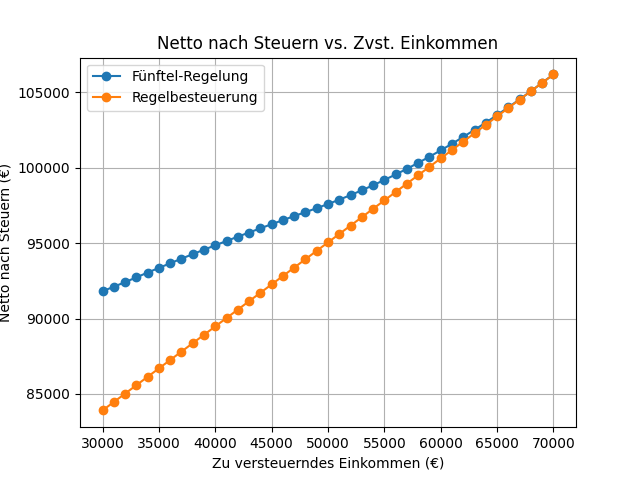
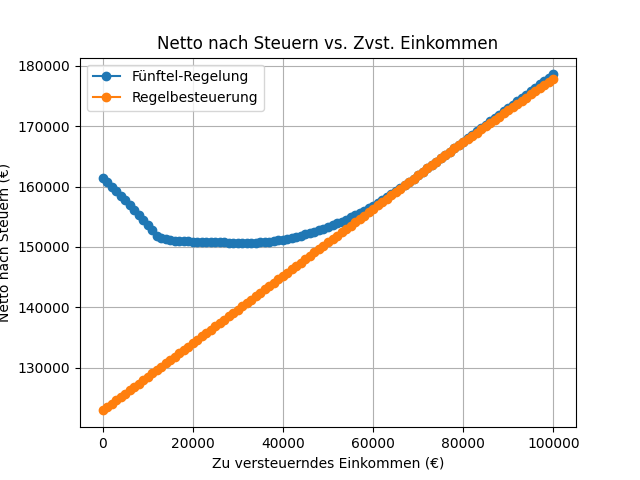
Active GUI

diff --git a/gui.py b/gui.py
@@ -1,11 +1,14 @@
-# gui.py
+import tkinter as tk
+from tkinter import ttk
 from decimal import Decimal
 import matplotlib.pyplot as plt
+from matplotlib.backends.backend_tkagg import FigureCanvasTkAgg
 from steuer_berechner import berechne_steuer
+
 
 def generate_plot(jahr, splitting, kirche, abfindung, zvst_eink_start, progr_eink):
     # Generate data for the plot
-    zvst_eink_values = [zvst_eink_start + i * 1000 for i in range(-20, 21)]
+    zvst_eink_values = [zvst_eink_start + i * 1000 for i in range(-50, 51)]
     netto_fuenftel_values = []
     netto_regel_values = []
 
@@ -32,15 +35,83 @@ def generate_plot(jahr, splitting, kirche, abfindung, zvst_eink_start, progr_ein
     ax.set_title("Netto nach Steuern vs. Zvst. Einkommen")
     ax.legend()
     ax.grid(True)
-    fig.savefig("plot.png")
 
-if __name__ == "__main__":
-    # Default values for testing
-    generate_plot(
-        jahr=2025,
-        splitting=False,
-        kirche=False,
-        abfindung=Decimal("100000"),
-        zvst_eink_start=Decimal("50000"),
-        progr_eink=Decimal("0")
-    )
+    return fig
+
+
+def show_plot():
+    # Get the input values from the GUI fields
+    jahr = int(entry_jahr.get())
+    splitting = var_splitting.get() == 1
+    kirche = var_kirche.get() == 1
+    abfindung = Decimal(entry_abfindung.get())
+    zvst_eink_start = Decimal(entry_zvst_eink.get())
+    progr_eink = Decimal(entry_progr_eink.get())
+
+    # Generate the plot based on the user input
+    fig = generate_plot(jahr, splitting, kirche, abfindung, zvst_eink_start, progr_eink)
+
+    # Clear previous canvas if there is one
+    for widget in frame_plot.winfo_children():
+        widget.destroy()
+
+    # Create a new canvas to display the plot
+    canvas = FigureCanvasTkAgg(fig, master=frame_plot)
+    canvas.draw()
+    canvas.get_tk_widget().pack()
+
+
+# Set up the main window
+root = tk.Tk()
+root.title("Steuerberechnung Plot")
+
+# Set up the input fields
+frame_inputs = ttk.LabelFrame(root, text="Eingabewerte", padding="10")
+frame_inputs.grid(row=0, column=0, padx=10, pady=10)
+
+# Jahr
+ttk.Label(frame_inputs, text="Jahr:").grid(row=0, column=0, sticky="w")
+entry_jahr = ttk.Entry(frame_inputs)
+entry_jahr.grid(row=0, column=1)
+entry_jahr.insert(0, "2025")
+
+# Splitting
+ttk.Label(frame_inputs, text="Ehegatten-Splitting:").grid(row=1, column=0, sticky="w")
+var_splitting = tk.IntVar()
+chk_splitting = ttk.Checkbutton(frame_inputs, variable=var_splitting)
+chk_splitting.grid(row=1, column=1)
+
+# Kirche
+ttk.Label(frame_inputs, text="Kirchensteuerpflichtig:").grid(row=2, column=0, sticky="w")
+var_kirche = tk.IntVar()
+chk_kirche = ttk.Checkbutton(frame_inputs, variable=var_kirche)
+chk_kirche.grid(row=2, column=1)
+
+# Abfindung
+ttk.Label(frame_inputs, text="Abfindung (€):").grid(row=3, column=0, sticky="w")
+entry_abfindung = ttk.Entry(frame_inputs)
+entry_abfindung.grid(row=3, column=1)
+entry_abfindung.insert(0, "200000")
+
+# Zu versteuerndes Einkommen
+ttk.Label(frame_inputs, text="Zu versteuerndes Einkommen (€):").grid(row=4, column=0, sticky="w")
+entry_zvst_eink = ttk.Entry(frame_inputs)
+entry_zvst_eink.grid(row=4, column=1)
+entry_zvst_eink.insert(0, "50000")
+
+# Progressionsvorbehalt
+ttk.Label(frame_inputs, text="Progressionsvorbehalt (€):").grid(row=5, column=0, sticky="w")
+entry_progr_eink = ttk.Entry(frame_inputs)
+entry_progr_eink.grid(row=5, column=1)
+entry_progr_eink.insert(0, "0")
+
+# Submit button
+btn_plot = ttk.Button(frame_inputs, text="Plot generieren", command=show_plot)
+btn_plot.grid(row=6, column=0, columnspan=2, pady=10)
+
+# Frame for the plot
+frame_plot = ttk.Frame(root, width=800, height=600)
+frame_plot.grid(row=1, column=0, padx=10, pady=10)
+
+# Run the Tkinter event loop
+root.mainloop()
